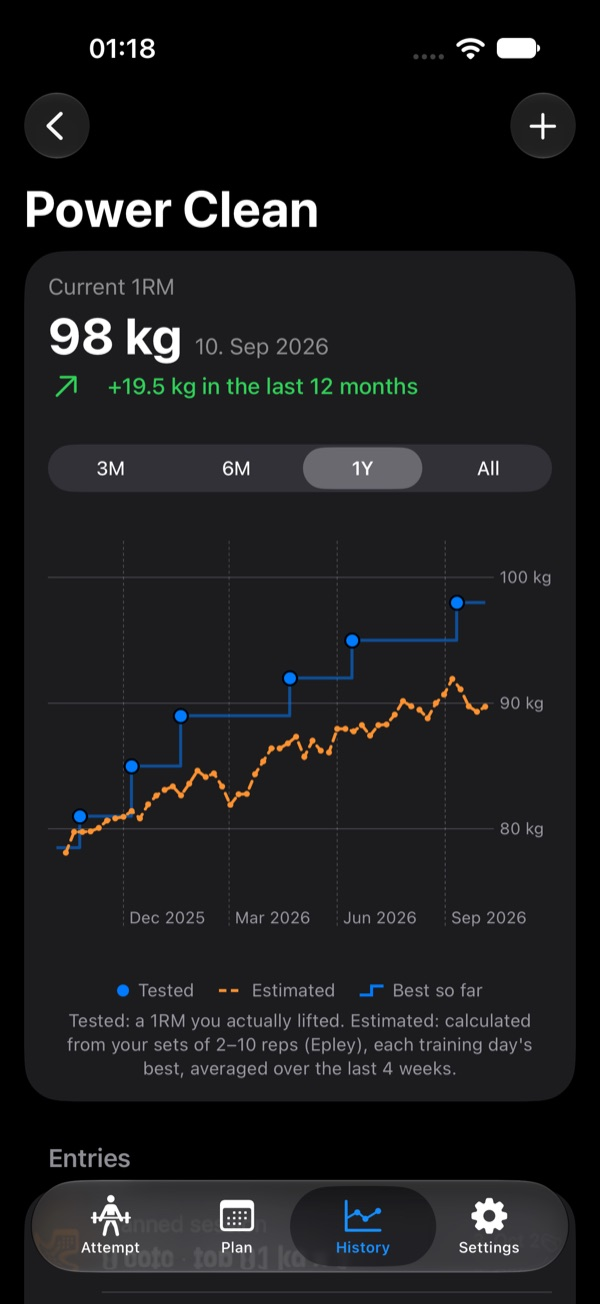
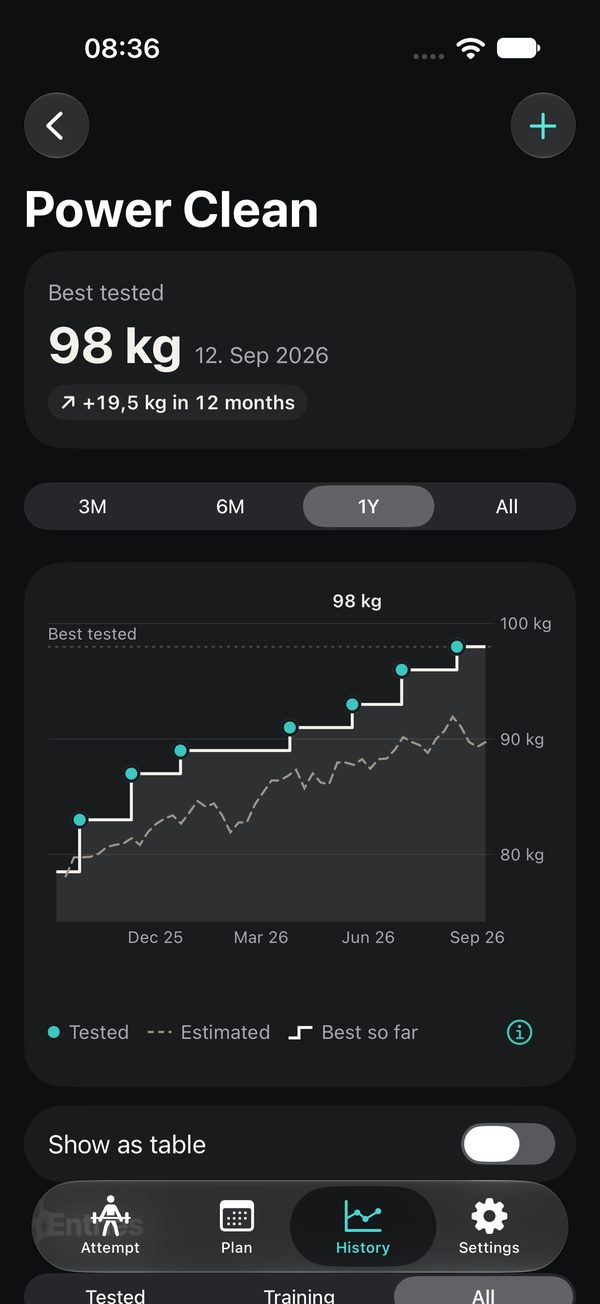
1rm: screenshots of the redesigned app; the example build-up follows the current ladder

diff --git a/1rm/index.html b/1rm/index.html
@@ -31,7 +31,7 @@
             <a href="howto.html">See how it works</a>
           </div>
         </div>
-        <div class="phone"><img src="img/rest.jpg" width="600" height="1304" alt="Rest screen: a large clock counting down, and the next lift, 40 kg for 3, below it."></div>
+        <div class="phone"><img src="img/rest.jpg" width="600" height="1304" alt="Rest screen: a large clock counting down in a ring, the next lift, 40 kg for 3, and the bar as it is now."></div>
       </section>
 
       <figure class="ladder">
@@ -44,45 +44,41 @@
             <span class="set">40<small>×3</small></span>
             <span class="plates" aria-hidden="true"><i class="p10"></i></span>
           </li>
-          <li style="--w: 0.366; --step: 2" aria-label="50 kg for 3; per side: 15">
-            <span class="set">50<small>×3</small></span>
-            <span class="plates" aria-hidden="true"><i class="p15"></i></span>
+          <li style="--w: 0.415; --step: 2" aria-label="54 kg for 2; per side: 15 + 2">
+            <span class="set">54<small>×2</small></span>
+            <span class="plates" aria-hidden="true"><i class="p15"></i><i class="p2s"></i></span>
           </li>
-          <li style="--w: 0.488; --step: 3" aria-label="60 kg for 2; per side: 20">
-            <span class="set">60<small>×2</small></span>
-            <span class="plates" aria-hidden="true"><i class="p20"></i></span>
+          <li style="--w: 0.537; --step: 3" aria-label="64 kg for 2; per side: 20 + 2">
+            <span class="set">64<small>×2</small></span>
+            <span class="plates" aria-hidden="true"><i class="p20"></i><i class="p2s"></i></span>
           </li>
-          <li style="--w: 0.610; --step: 4" aria-label="70 kg for 2; per side: 25">
-            <span class="set">70<small>×2</small></span>
-            <span class="plates" aria-hidden="true"><i class="p25"></i></span>
+          <li style="--w: 0.610; --step: 4" aria-label="70 kg for 1; per side: 20 + 5">
+            <span class="set">70<small>×1</small></span>
+            <span class="plates" aria-hidden="true"><i class="p20"></i><i class="p5"></i></span>
           </li>
-          <li style="--w: 0.671; --step: 5" aria-label="75 kg for 1; per side: 25 + 2.5">
-            <span class="set">75<small>×1</small></span>
-            <span class="plates" aria-hidden="true"><i class="p25"></i><i class="p25s"></i></span>
-          </li>
-          <li style="--w: 0.732; --step: 6" aria-label="80 kg for 1; per side: 25 + 5">
+          <li style="--w: 0.732; --step: 5" aria-label="80 kg for 1; per side: 20 + 10">
             <span class="set">80<small>×1</small></span>
-            <span class="plates" aria-hidden="true"><i class="p25"></i><i class="p5"></i></span>
+            <span class="plates" aria-hidden="true"><i class="p20"></i><i class="p10"></i></span>
           </li>
-          <li style="--w: 0.793; --step: 7" aria-label="85 kg for 1; per side: 25 + 5 + 2.5">
-            <span class="set">85<small>×1</small></span>
-            <span class="plates" aria-hidden="true"><i class="p25"></i><i class="p5"></i><i class="p25s"></i></span>
+          <li style="--w: 0.780; --step: 6" aria-label="84 kg for 1; per side: 20 + 10 + 2">
+            <span class="set">84<small>×1</small></span>
+            <span class="plates" aria-hidden="true"><i class="p20"></i><i class="p10"></i><i class="p2s"></i></span>
           </li>
-          <li style="--w: 0.854; --step: 8" aria-label="90 kg for 1; per side: 25 + 10">
+          <li style="--w: 0.854; --step: 7" aria-label="90 kg for 1; per side: 20 + 15">
             <span class="set">90<small>×1</small></span>
-            <span class="plates" aria-hidden="true"><i class="p25"></i><i class="p10"></i></span>
+            <span class="plates" aria-hidden="true"><i class="p20"></i><i class="p15"></i></span>
           </li>
-          <li style="--w: 0.902; --step: 9" aria-label="94 kg for 1; per side: 25 + 10 + 2">
+          <li style="--w: 0.902; --step: 8" aria-label="94 kg for 1; per side: 20 + 15 + 2">
             <span class="set">94<small>×1</small></span>
-            <span class="plates" aria-hidden="true"><i class="p25"></i><i class="p10"></i><i class="p2s"></i></span>
+            <span class="plates" aria-hidden="true"><i class="p20"></i><i class="p15"></i><i class="p2s"></i></span>
           </li>
-          <li style="--w: 0.951; --step: 10" aria-label="98 kg for 1; per side: 25 + 10 + 2.5 + 1.5">
+          <li style="--w: 0.951; --step: 9" aria-label="98 kg for 1; per side: 20 + 15 + 2 + 2">
             <span class="set">98<small>×1</small></span>
-            <span class="plates" aria-hidden="true"><i class="p25"></i><i class="p10"></i><i class="p25s"></i><i class="p15s"></i></span>
+            <span class="plates" aria-hidden="true"><i class="p20"></i><i class="p15"></i><i class="p2s"></i><i class="p2s"></i></span>
           </li>
-          <li class="attempt" style="--w: 1.000; --step: 11" aria-label="102 kg for 1, the attempt; per side: 25 + 15 + 1">
+          <li class="attempt" style="--w: 1.000; --step: 10" aria-label="102 kg for 1, the attempt; per side: 20 + 15 + 5 + 1">
             <span class="set">102</span>
-            <span class="plates" aria-hidden="true"><i class="p25"></i><i class="p15"></i><i class="p1s"></i></span>
+            <span class="plates" aria-hidden="true"><i class="p20"></i><i class="p15"></i><i class="p5"></i><i class="p1s"></i></span>
           </li>
         </ol>
         <figcaption>Max day for a previous best of 100 kg and a target of 102 kg: every build-up set with the plates for one side of the bar, ending in the attempt.</figcaption>
@@ -95,8 +91,8 @@
           <p>After a made attempt you enter the next weight yourself; the app shows the plates to change and asks once more if it&#8217;s well above your previous best. Miss, and you retry or call it a day. Your best goes straight into your history.</p>
         </div>
         <div class="shots">
-          <div class="phone"><img src="img/load.jpg" width="600" height="1304" alt="Load screen: plates to take off in red, plates to put on in green." loading="lazy"></div>
-          <div class="phone"><img src="img/decision.jpg" width="600" height="1304" alt="After a made attempt: the next attempt, typed by the lifter, with the plates to add per side." loading="lazy"></div>
+          <div class="phone"><img src="img/load.jpg" width="600" height="1304" alt="Load screen: the bar with the 10 kg plate to put on each side, and the steps in words: put on 10, collars on." loading="lazy"></div>
+          <div class="phone"><img src="img/decision.jpg" width="600" height="1304" alt="After a made attempt: the next attempt, 103 kg, typed by the lifter on a large keypad, with the plate to add per side." loading="lazy"></div>
         </div>
       </section>
 
@@ -107,7 +103,7 @@
           <p>Log what you lifted. If a heavy set falls short, the rest of the block gets lighter; if two heavy days in a row go well above plan, it gets heavier. The last day hands over to max day.</p>
         </div>
         <div class="shots">
-          <div class="phone"><img src="img/block.jpg" width="600" height="1304" alt="A training block: base 1RM, the current adjustment and today&#8217;s session." loading="lazy"></div>
+          <div class="phone"><img src="img/block.jpg" width="600" height="1304" alt="A training block: the block base, the current adjustment, the weeks as bars and today&#8217;s session with its plates." loading="lazy"></div>
         </div>
       </section>
 
@@ -117,7 +113,7 @@
           <p>Your tested maxes, your best so far, and an estimate from the sets you log, averaged over four weeks so one good day doesn&#8217;t fool you. Export everything as a CSV file whenever you like.</p>
         </div>
         <div class="shots">
-          <div class="phone"><img src="img/history.jpg" width="600" height="1304" alt="A chart of tested maxes, the estimated max and the best so far over a year." loading="lazy"></div>
+          <div class="phone"><img src="img/history.jpg" width="600" height="1304" alt="A lift&#8217;s history: the best tested 1RM, a chart of tested maxes, the estimate and the best so far over a year." loading="lazy"></div>
         </div>
       </section>
 
@@ -129,7 +125,7 @@
           <p>Or just describe it. On iPhones with Apple Intelligence the app reads plain English or German on the phone itself. You see the session it would build before anything changes.</p>
         </div>
         <div class="shots">
-          <div class="phone"><img src="img/scheme.jpg" width="600" height="1304" alt="The scheme preview: build-up steps, target reps, rest, and the example session." loading="lazy"></div>
+          <div class="phone"><img src="img/scheme.jpg" width="600" height="1304" alt="The scheme preview: build-up steps, target reps and the rest before each set." loading="lazy"></div>
         </div>
       </section>
 
